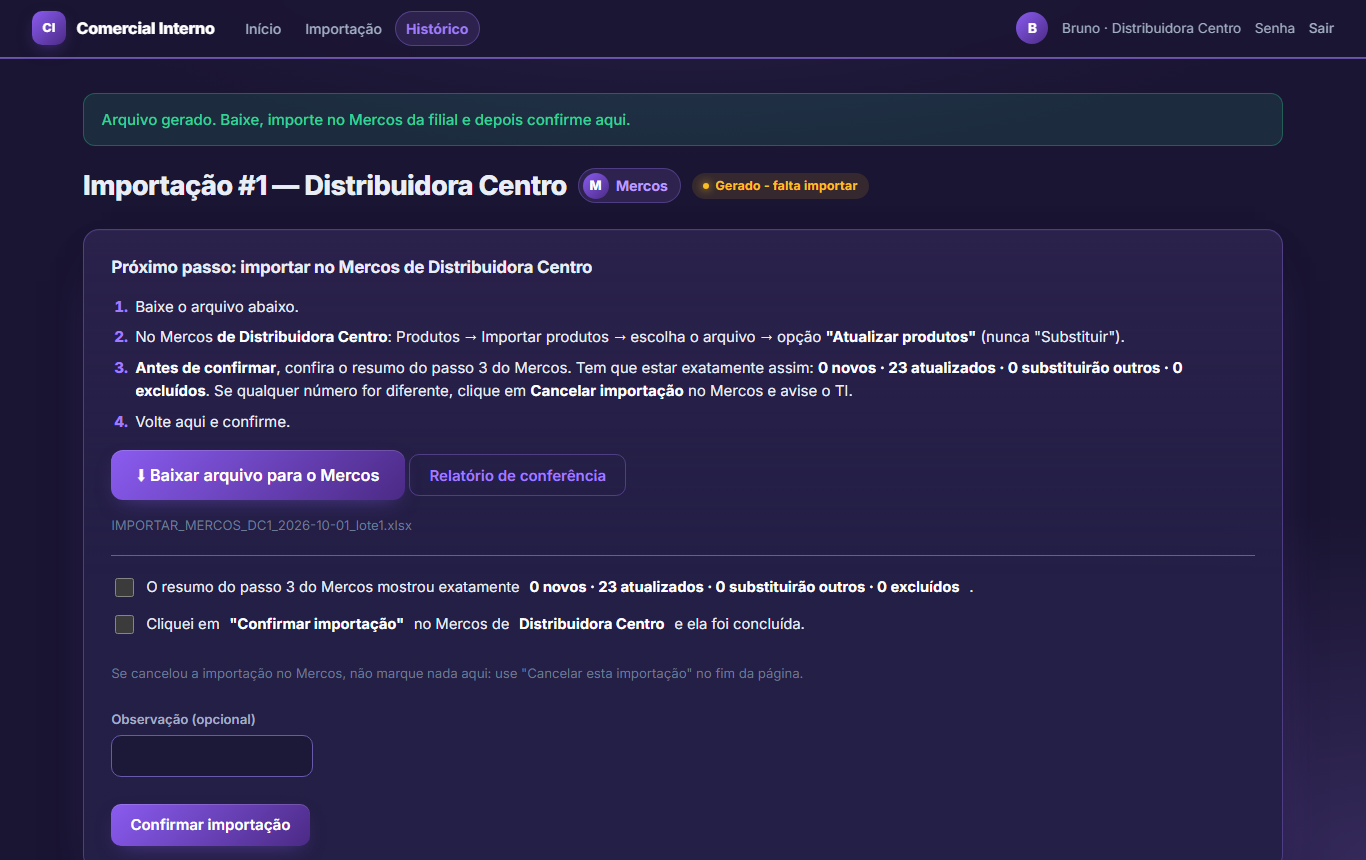
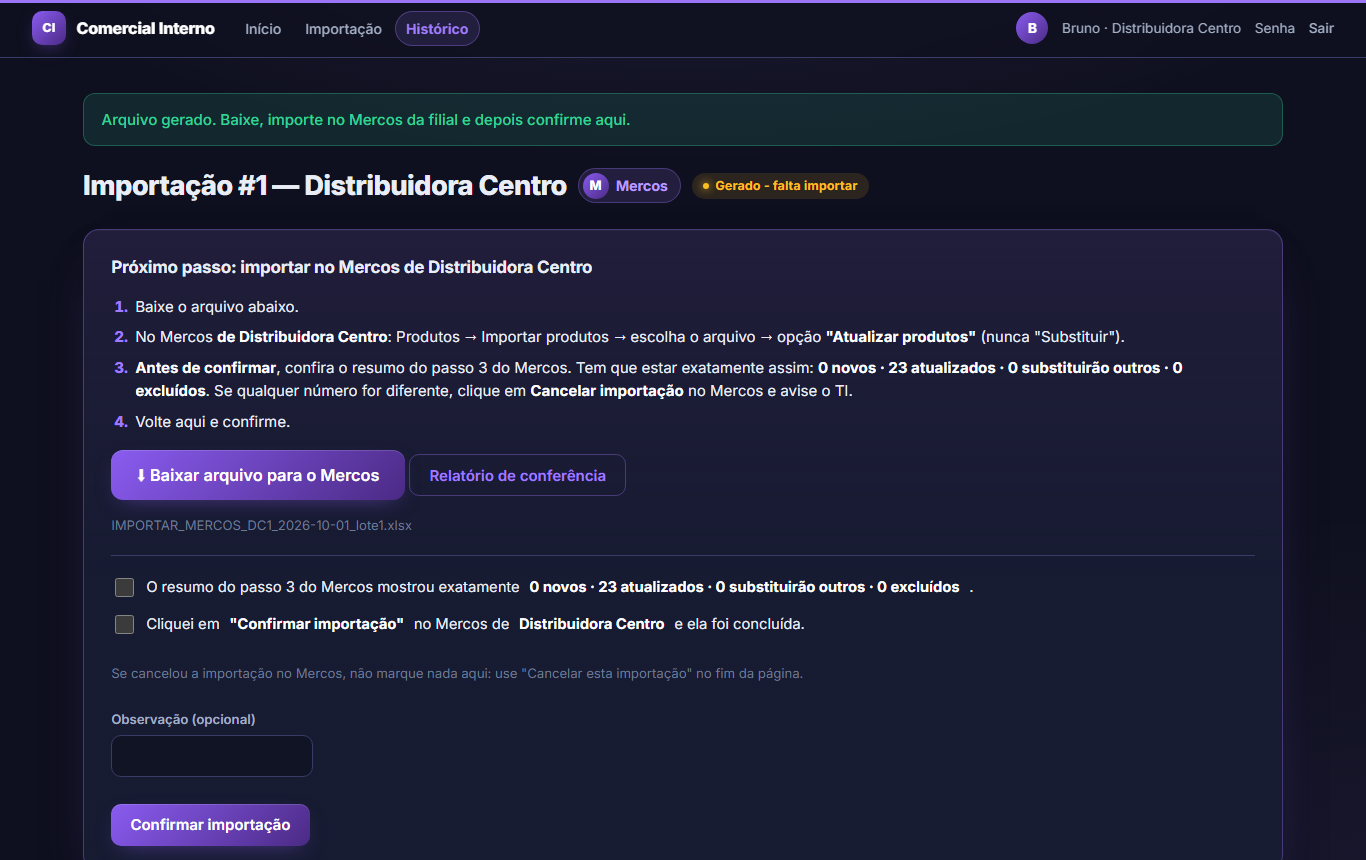
Tema por destino mais equilibrado

Changed region(s): [[0.9224, 0.6651, 1.0, 1.0], [0.0, 0.0, 1.0, 0.0302]]

diff --git a/app/static/estilo.css b/app/static/estilo.css
@@ -28,8 +28,8 @@ body { --p: #6ea8ff; --p-forte: #2f6fdb; --p-escura: #1e3a8a; --tinta: 0%;
   --p-fundo: color-mix(in srgb, var(--p) 13%, transparent); --p-borda: color-mix(in srgb, var(--p) 34%, transparent);
   --p-brilho: color-mix(in srgb, var(--p-forte) 50%, transparent); --p-grad: linear-gradient(135deg, var(--p-forte), var(--p-escura));
   transition: --p .7s ease, --p-forte .7s ease, --p-escura .7s ease, --tinta .7s ease; }
-body.tema-mercos { --p: #a07bff; --p-forte: #8a5cf0; --p-escura: #4b2a85; --tinta: 55%; }
-body.tema-ion { --p: #3ee0b4; --p-forte: #1fc79b; --p-escura: #0b6b55; --tinta: 55%; }
+body.tema-mercos { --p: #a07bff; --p-forte: #8a5cf0; --p-escura: #4b2a85; --tinta: 16%; }
+body.tema-ion { --p: #3ee0b4; --p-forte: #1fc79b; --p-escura: #0b6b55; --tinta: 16%; }
 
 * { box-sizing: border-box; }
 html { -webkit-font-smoothing: antialiased; }
@@ -48,7 +48,7 @@ code { background: var(--cartao-2); color: var(--p); padding: .1rem .4rem; borde
 /* ---------- topo */
 .topo { display: flex; align-items: center; gap: 1.2rem; flex-wrap: wrap; padding: .7rem 2rem; position: sticky; top: 0; z-index: 10;
   background: color-mix(in srgb, var(--fundo) 80%, transparent); backdrop-filter: blur(12px); border-bottom: 1px solid var(--borda);
-  box-shadow: 0 1px 0 color-mix(in srgb, var(--p) var(--tinta), transparent); }
+  box-shadow: inset 0 3px 0 color-mix(in srgb, var(--p) calc(var(--tinta) * 6), transparent); }
 .topo a { text-decoration: none; }
 .marca { font-weight: 800; font-size: 1rem; display: flex; align-items: center; gap: .65rem; white-space: nowrap; color: #fff; letter-spacing: -.01em; }
 .marca small { font-weight: 500; color: var(--suave); font-size: .8rem; }
@@ -190,7 +190,8 @@ ul.nota { padding-left: 1.1rem; display: flex; flex-direction: column; gap: .45r
 .seletor-filial { margin-bottom: 1.2rem; }
 .seletor-filial select { min-width: 340px; }
 .destino-filial { display: flex; align-items: center; gap: 1.2rem; padding: 1.3rem 1.6rem; border-radius: var(--raio); margin-bottom: 1.25rem;
-  border: 1px solid var(--p-borda); background: linear-gradient(120deg, var(--p-fundo), transparent 75%), var(--cartao); box-shadow: var(--sombra); }
+  border: 1px solid var(--p-borda); box-shadow: inset 5px 0 0 var(--p), var(--sombra);
+  background: linear-gradient(120deg, color-mix(in srgb, var(--p) 22%, transparent), transparent 80%), var(--cartao); }
 .destino-filial h2 { margin: 0 0 .1rem; font-size: 1.35rem; font-weight: 800; color: #fff; }
 .destino-filial p { margin: 0; color: var(--suave); }
 .destino-filial .selo { font-size: 1.1rem; padding: .5rem 1.1rem .5rem .5rem; }
@@ -200,7 +201,7 @@ ul.nota { padding-left: 1.1rem; display: flex; flex-direction: column; gap: .45r
 .pronta { background: var(--cartao); border: 1px solid var(--p-borda); border-radius: 20px; padding: 1.7rem 1.8rem; margin-bottom: 1.25rem;
   position: relative; overflow: hidden; box-shadow: 0 24px 50px -28px var(--p-brilho), var(--sombra); }
 .pronta::before { content: ""; position: absolute; inset: 0 0 auto 0; height: 3px; background: var(--p-grad); }
-.pronta.feita { border-color: rgba(52, 211, 153, .3); box-shadow: var(--sombra); }
+.pronta.feita { border-color: var(--borda); box-shadow: var(--sombra); }
 .pronta.feita::before { background: linear-gradient(90deg, #34d399, #0d7a55); }
 .pronta-topo { display: flex; gap: 1.1rem; align-items: center; margin-bottom: 1.3rem; }
 .pronta-topo h2 { margin: .1rem 0; font-size: 1.45rem; font-weight: 800; letter-spacing: -.02em; color: #fff; }
